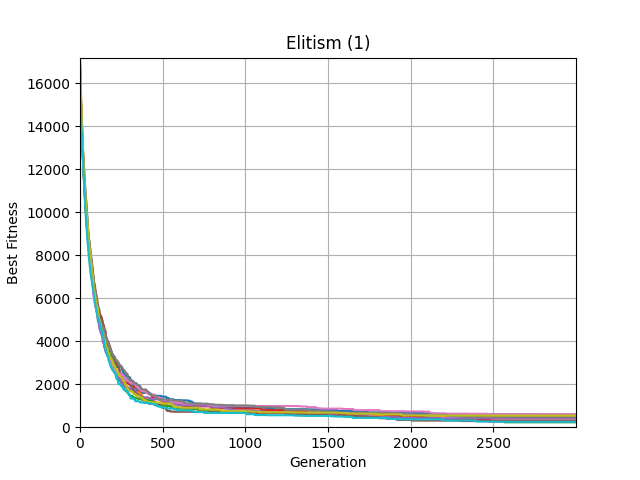
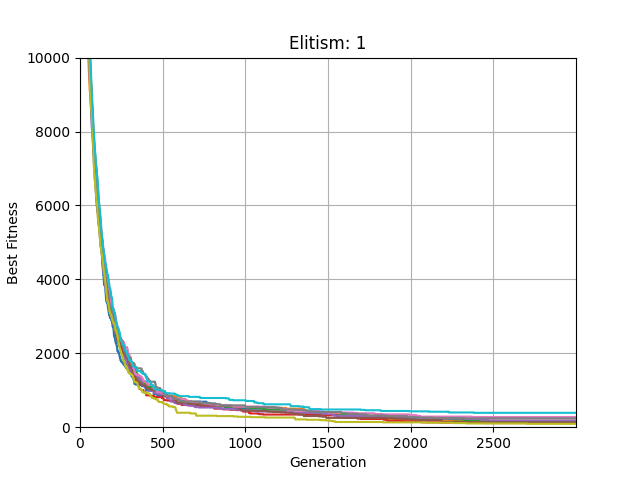
Last test

diff --git a/Testing.py b/Testing.py
@@ -85,21 +85,23 @@ classrooms = [
 ]
 # End Example
 
-STRING = "k-m"
+STRING = "Number of mutations"
 
-def run_ga_test(_generations, mutation_rate, k, m):
+def run_ga_test(_generations, mutation_rate, k, m,  j, n_mutations):
     agents = [Timetable(classrooms, courses) for _ in range(100)]
     result, fitness, statistics = GA.run(agents,
                                          generations=_generations,
                                          mutation_rate=mutation_rate,
                                          k=k, m=m,
+                                         elitism=j,
+                                         n_mutations= n_mutations,
                                          )
     # Restituisco i due valori: fitness e l'array delle statistiche
     return fitness, statistics
 
 if __name__ == '__main__':
     # Numero di test
-    num_tests = 10
+    num_tests = 5
     # Numero di processi TOT da lanciare per ogni test
     num_processes = 10
     # Numero di processi massimi in parallelo
@@ -107,21 +109,21 @@ if __name__ == '__main__':
     # Numero di generazioni
     generations = 3000
 
-    # Pulisco il file dei risultati
-    with open('Testing_KandM/results.txt', 'w'):
-        pass
+    # # Pulisco il file dei risultati
+    # with open('TestingMutation3.0/', 'w'):
+    #     pass
 
     # Creo la pool con concurrency limitata a max_workers
     pool = multiprocessing.Pool(processes=max_workers)
 
-    for j in range(10, (num_tests + 1) * 10, 10):
+    for j in range(1, num_tests + 1):
         # Invio i job alla pool e mi salvo i riferimenti
         async_results = []
         for i in range(num_processes):
             async_results.append(
                 pool.apply_async(
                     run_ga_test,
-                    args=(generations, 0.9,j, j)
+                    args=(generations, 0.9, 60, 60, 0, j)
                 )
             )
 
@@ -147,14 +149,14 @@ if __name__ == '__main__':
         plt.grid(True)
         plt.xlim(0, generations-1)
         plt.ylim(0, 10000)
-        plt.savefig(f'Testing_KandM/{STRING}_{j}.png')
+        plt.savefig(f'TestingNMutations/{STRING}_{j}.png')
         plt.close()
 
         # Calcolo e salvo la media dei fitness
         valid_results = [r for r in results if r is not None]
         if valid_results:
             mean_value = sum(valid_results) / len(valid_results)
-            with open('Testing_KandM/results.txt', 'a') as f:
+            with open('TestingNMutations/results.txt', 'a') as f:
                 f.write(f"Mean {STRING} ({j}): {mean_value}\n")
 
     # Chiudo la pool

diff --git a/GA.py b/GA.py
@@ -14,7 +14,8 @@ def run(
     mutation_rate=0.9,
     k=20,
     m=20,
-    elitism = 7,
+    elitism = 0,
+    n_mutations = 1,
     update_callback=None,
     stop_check=None
 ):
@@ -71,15 +72,16 @@ def run(
 
         # Mutation
         for ag in new_agents:
-            if rd.random() < mutation_rate:
-                mutation(ag, day_mutation, class_mutation, hour_mutation)
+            for _ in range(n_mutations):
+                if rd.random() < mutation_rate:
+                    mutation(ag, day_mutation, class_mutation, hour_mutation)
 
         agents = new_agents
         # Update progress after each generation
         if update_callback:
             update_callback(i, generations, best_fit)
 
-    return best_agent, best_fit# , best_fits
+    return best_agent, best_fit , best_fits
 
 def mutation(agent: Timetable, day_mutation, class_mutation, hour_mutation):
     # Select a random lesson
@@ -90,7 +92,7 @@ def mutation(agent: Timetable, day_mutation, class_mutation, hour_mutation):
     # Mutate the lesson
     new_lesson = [
         (old_lesson[0] + rd.randint(-day_mutation, day_mutation)) % NUMBER_OF_DAYS,
-        (old_lesson[1] + rd.randint(-class_mutation, class_mutation)) % len(agent.classrooms),
+        (old_lesson[1] + rd.randint(-class_mutation, class_mutation)) % NUMBER_OF_CLASSES,
         (old_lesson[2] + rd.randint(-hour_mutation, hour_mutation)) % NUMBER_OF_HOURS,
         old_lesson[3]
     ]
@@ -209,7 +211,6 @@ def fitness(agent: Timetable):
     # -------------------------------------------------------------------
     def count_professor_conflicts():
         conflicts = 0
-        # professor_lessons[prof] = list of (day, hour) where they teach
         professor_lessons_map = {}
 
         for i, course in enumerate(all_courses):
@@ -241,7 +242,7 @@ def fitness(agent: Timetable):
                 if error > 0:
                     total_error += error
                 else:
-                    total_error -= error/100
+                    total_error -= round(error/100, 2)
         return total_error
 
     # -------------------------------------------------------------------

diff --git a/Env.py b/Env.py
@@ -83,33 +83,3 @@ class Timetable:
         for course in self.timetable:
             result.append(str(lesson) for lesson in course)
         return tabulate(result, tablefmt="plain")
-
-    def set_timetable(self, timetable):
-        self.timetable = timetable
-
-
-    # This method prints the timetable as a table where the rows are the days, the columns are the classrooms and the cells are the hours
-    def display_as_table(self):
-        table = [["" for _ in range(len(self.classrooms))] for _ in range(5)]
-        for course in self.timetable:
-            for lesson in course:
-                day, classroom, hour, lab = lesson
-                table[day][classroom] += f"{hour + 1}: {'Lab. ' if lab else ''}{self.courses[self.timetable.index(course)].name} (ID: {self.timetable.index(course)})\n"
-
-        # Fill in free hours
-        for day in range(5):
-            for classroom in range(len(self.classrooms)):
-                occupied_hours = [lesson[2] for course in self.timetable for lesson in course if lesson[0] == day and lesson[1] == classroom]
-                for hour in range(8):
-                    if hour not in occupied_hours:
-                        table[day][classroom] += f"{hour + 1}: FREE\n"
-
-        # Sort the lessons in each cell
-        for day in range(5):
-            for classroom in range(len(self.classrooms)):
-                lessons = table[day][classroom].strip().split('\n')
-                lessons.sort(key=lambda x: int(x.split(':')[0]))
-                table[day][classroom] = '\n'.join(lessons)
-
-        return tabulate(table, headers=[classroom.name for classroom in self.classrooms],
-                       showindex=["Mon", "Tue", "Wed", "Thu", "Fri"], tablefmt="grid")

diff --git a/Application.py b/Application.py
@@ -126,7 +126,6 @@ def toggle_subject_field(subject_combobox, is_lab_var):
         subject_combobox.set("")
         subject_combobox.configure(state="disabled")
 
-
 def _generate_course_colors(num_courses):
     """
     Generate a color map for each course index (0..num_courses-1).
@@ -733,7 +732,7 @@ class TimetableApp(tk.Tk):
                 agents = [self.timetable for _ in range(100)]
             best_timetable, best_fitness = GA.run(
                 agents,
-                generations=3000,
+                generations=1000,
                 mutation_rate=0.9,
                 k=60,
                 m=60,
